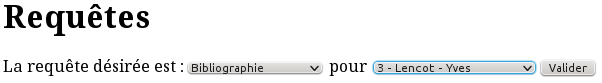
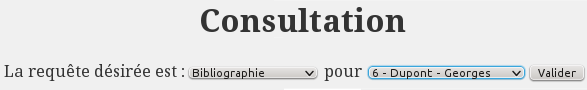
Maj images + correction faute

Changed region(s): [[0.0, 0.6988, 1.0, 0.9157], [0.3373, 0.0723, 0.7053, 0.3614], [0.0, 0.0482, 0.276, 0.4337]]

diff --git a/rapport/rapport.tex b/rapport/rapport.tex
@@ -398,23 +398,23 @@ titre de la série en question.
 \begin{lstlisting}
 SELECT h.*, nb_albums
   FROM histoire h,
-  		 (SELECT no_histoire, count(*) as nb_albums
+       (SELECT no_histoire, count(*) as nb_albums
           FROM contenir c,
-          		 (SELECT no_volume
-          		    FROM album_sans_collection
-          			  UNION
-          			  SELECT no_volume
-          			  FROM album_avec_collection) v
+               (SELECT no_volume
+                  FROM album_sans_collection
+                UNION
+                SELECT no_volume
+                  FROM album_avec_collection) v
           WHERE v.no_volume = c.no_volume
           GROUP BY no_histoire) t
   WHERE h.no_histoire = t.no_histoire
   ORDER BY nb_albums desc;
 \end{lstlisting}
 Pour cette requête, le premier pas est d'obtenir les numéros de volumes
-présent dans album\_sans\_collection ou album\_avec\_collection, ce qui ce
-fait naturellement avec une union. Pour ce genre de cas, l'utilisation d'une
-vue serait parfaitement pertinente. En combinant les numéros obtenus avec
-la relation c et en utilisant le bon ``GROUP BY'', on obtient le nombre
+présent dans la table album\_sans\_collection ou album\_avec\_collection, ce
+qui se fait naturellement avec une union. Pour ce genre de cas, l'utilisation
+d'une vue serait parfaitement pertinente. En combinant les numéros obtenus
+avec la relation c et en utilisant le bon ``GROUP BY'', on obtient le nombre
 d'albums correspondant à chaque histoire. Avec le premier SELECT, on obtient
 les autres champs d'histoires (tel que le titre) et grâce au ``ORDER BY'' on
 assure que les entrées seront classées de manière décroissantes par rapport
